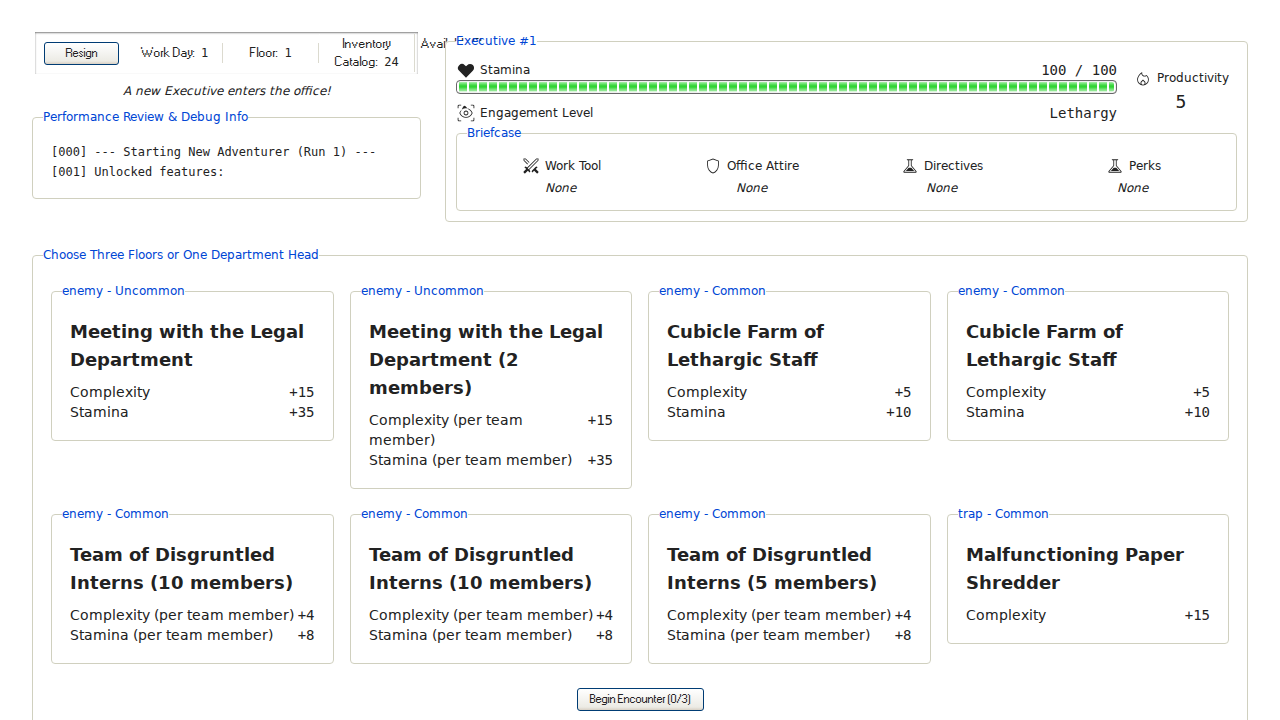
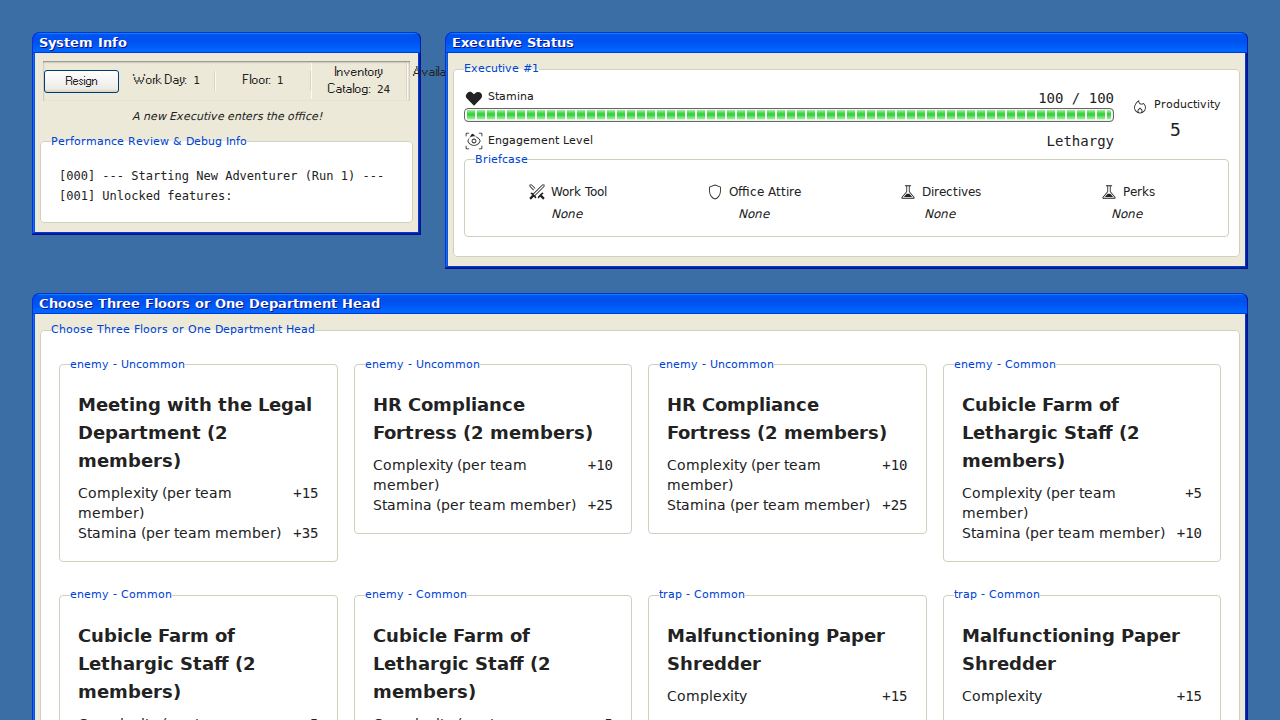
feat: Implement three-window layout for main game screen
This commit refactors the main game screen to use a three-window layout, as requested in the PR review. Each of the main UI sections (System Info, Executive Status, and the main action panel) is now wrapped in its own `.window` container.

This change creates a more authentic and visually appealing XP-era desktop aesthetic and addresses the final piece of feedback on the UI redesign.

diff --git a/rendering.ts b/rendering.ts
@@ -27,7 +27,6 @@ const renderChoicePanel = (state: GameState, engine: GameEngine, type: 'item' | 
 
 const renderMainGame = (appElement: HTMLElement, state: GameState, engine: GameEngine) => {
     let adventurerStatus = appElement.querySelector('adventurer-status') as AdventurerStatus;
-    let choicePanel: ChoicePanel | null = null;
     let logPanel = appElement.querySelector('log-panel') as LogPanel;
     let gameStats = appElement.querySelector('game-stats') as GameStats;
 
@@ -35,37 +34,71 @@ const renderMainGame = (appElement: HTMLElement, state: GameState, engine: GameE
         appElement.innerHTML = ''; // Clear only on initial render
 
         const mainContainer = document.createElement('div');
-        mainContainer.className = 'w-full p-4 md:p-6 lg:p-8 flex flex-col items-center';
+        mainContainer.className = 'w-full p-4 md:p-6 lg:p-8';
         appElement.appendChild(mainContainer);
 
         const gridContainer = document.createElement('div');
         gridContainer.className = 'w-full max-w-7xl mx-auto grid grid-cols-1 lg:grid-cols-3 gap-6';
         mainContainer.appendChild(gridContainer);
 
-        const leftColumn = document.createElement('div');
-        leftColumn.className = 'lg:col-span-1 space-y-6';
-        gridContainer.appendChild(leftColumn);
+        // --- Left Column Window ---
+        const leftColumnWrapper = document.createElement('div');
+        leftColumnWrapper.className = 'lg:col-span-1 space-y-6';
+        gridContainer.appendChild(leftColumnWrapper);
+
+        const leftWindow = document.createElement('div');
+        leftWindow.className = 'window';
+        leftColumnWrapper.appendChild(leftWindow);
+        const leftTitle = document.createElement('div');
+        leftTitle.className = 'title-bar';
+        leftTitle.innerHTML = `<div class="title-bar-text">System Info</div>`;
+        leftWindow.appendChild(leftTitle);
+        const leftBody = document.createElement('div');
+        leftBody.className = 'window-body space-y-4';
+        leftWindow.appendChild(leftBody);
 
         gameStats = document.createElement('game-stats') as GameStats;
-        leftColumn.appendChild(gameStats);
-
+        leftBody.appendChild(gameStats);
         const feedbackPanel = document.createElement('feedback-panel');
-        leftColumn.appendChild(feedbackPanel);
-
+        leftBody.appendChild(feedbackPanel);
         logPanel = document.createElement('log-panel') as LogPanel;
-        leftColumn.appendChild(logPanel);
+        leftBody.appendChild(logPanel);
 
-        const rightColumn = document.createElement('div');
-        rightColumn.className = 'lg:col-span-2 space-y-6';
-        gridContainer.appendChild(rightColumn);
+        // --- Right Column Window ---
+        const rightColumnWrapper = document.createElement('div');
+        rightColumnWrapper.className = 'lg:col-span-2 space-y-6';
+        gridContainer.appendChild(rightColumnWrapper);
+
+        const rightWindow = document.createElement('div');
+        rightWindow.className = 'window';
+        rightColumnWrapper.appendChild(rightWindow);
+        const rightTitle = document.createElement('div');
+        rightTitle.className = 'title-bar';
+        rightTitle.innerHTML = `<div class="title-bar-text">Executive Status</div>`;
+        rightWindow.appendChild(rightTitle);
+        const rightBody = document.createElement('div');
+        rightBody.className = 'window-body';
+        rightWindow.appendChild(rightBody);
 
         adventurerStatus = document.createElement('adventurer-status') as AdventurerStatus;
-        rightColumn.appendChild(adventurerStatus);
+        rightBody.appendChild(adventurerStatus);
 
+        // --- Bottom Panel Window ---
+        const gamePhaseWrapper = document.createElement('div');
+        gamePhaseWrapper.className = 'lg:col-span-3';
+        gridContainer.appendChild(gamePhaseWrapper);
+
+        const gamePhaseWindow = document.createElement('div');
+        gamePhaseWindow.className = 'window';
+        gamePhaseWrapper.appendChild(gamePhaseWindow);
+        const gamePhaseTitle = document.createElement('div');
+        gamePhaseTitle.className = 'title-bar';
+        gamePhaseTitle.innerHTML = `<div id="game-phase-title" class="title-bar-text">Decision Point</div>`;
+        gamePhaseWindow.appendChild(gamePhaseTitle);
         const gamePhasePanel = document.createElement('div');
         gamePhasePanel.id = 'game-phase-panel';
-        gamePhasePanel.className = 'lg:col-span-3';
-        gridContainer.appendChild(gamePhasePanel);
+        gamePhasePanel.className = 'window-body';
+        gamePhaseWindow.appendChild(gamePhasePanel);
     }
 
     // Update dynamic elements
@@ -91,10 +124,13 @@ const renderMainGame = (appElement: HTMLElement, state: GameState, engine: GameE
     logPanel.traits = state.adventurer.traits;
 
     const gamePhasePanel = appElement.querySelector('#game-phase-panel') as HTMLElement;
-    gamePhasePanel.innerHTML = ''; // Clear previous phase content
+    gamePhasePanel.innerHTML = '';
+
+    const gamePhaseTitle = appElement.querySelector('#game-phase-title') as HTMLElement;
 
     switch (state.phase) {
         case 'RUN_OVER': {
+            if (gamePhaseTitle) gamePhaseTitle.textContent = t('run_ended_screen.run_complete');
             const runEndedEl = document.createElement('run-ended-screen') as RunEndedScreen;
             runEndedEl.setAttribute('final-bp', state.designer.balancePoints.toString());
             runEndedEl.setAttribute('reason', state.runEnded.reason);
@@ -109,13 +145,15 @@ const renderMainGame = (appElement: HTMLElement, state: GameState, engine: GameE
             break;
         }
         case 'DESIGNER_CHOOSING_LOOT':
+            if (gamePhaseTitle) gamePhaseTitle.textContent = t('choice_panel.title');
             gamePhasePanel.appendChild(renderChoicePanel(state, engine, 'item'));
             break;
         case 'DESIGNER_CHOOSING_ROOM':
+            if (gamePhaseTitle) gamePhaseTitle.textContent = t('choice_panel.title_room');
             gamePhasePanel.appendChild(renderChoicePanel(state, engine, 'room'));
             break;
         default:
-            // Don't render anything for unhandled phases, let it be blank.
+            if (gamePhaseTitle) gamePhaseTitle.textContent = '...';
             break;
     }
 };
